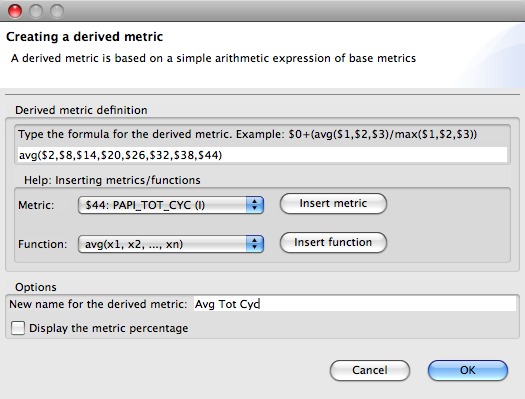
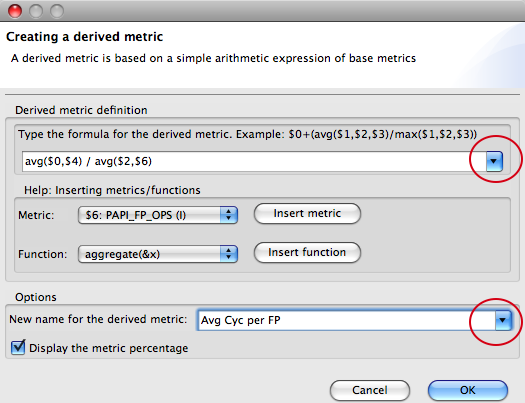
Update documentation/help: derived metric dialog box

diff --git a/doc/hpcviewer.html b/doc/hpcviewer.html
@@ -205,7 +205,7 @@ for the selected line and its descendants. One can zoom out
 <li><img src="images/savecsv.gif"/> <b>Export into a CSV format file</b>: Exporting the current metric table into a comma separated value (CSV) format file.
  This feature only exports all metrics that are currently shown.
  Metrics that are not shown in the view (whose scopes are not expanded) will not be exported (we assume these metrics are not significant).	 
- <li><img src="images/FontBigger.gif"/> <b>Increase</b> / <img src="images/FontSmaller.gif"/> decrease font size: Increasing or decreasing the size of the navigation and metric panes.
+ <li><img src="images/FontBigger.gif"/> <b>Increase</b> / <img src="images/FontSmaller.gif"/> <b>decrease font size</b>: Increasing or decreasing the size of the navigation and metric panes.
  </ul>
 </p>
 
@@ -423,6 +423,12 @@ The window has two main parts:
  </li>
 </p>
 
+<b>Notes</b>
+<p>The entered formula and the metric name will be stored automatically. 
+One can then review again the formula (or metric name) by clicking the 
+small triangle of the combo box (marked with a red circle).
+</p>
+
 
 <a name="metriccolumns"><h2>For Convenience Sake</h2></a>
 <p>In this section we describe some features of hpcviewer that help
@@ -492,6 +498,10 @@ Depress and hold the mouse button over the header of column
 that you wish to move and drag the column right or left to its new
 position.
 </li>
+ <li>Copying selected metrics into clipboard</li>. In order to copy selected
+ lines of scopes/metrics, one can right click on the metric pane or navigation pane
+ then select the menu <b>"Copy"</b>. The copied metrics can then be pasted into
+ any text editor.
  <li><b>Hiding or showing metric columns</b>. Sometimes, it may be
 more convenient to suppress the display of metrics that are not of
 current interest. When there are too many metrics to fit on the screen
@@ -534,8 +544,8 @@ As of this writing, hpcviewer has some limitations:
    executions at different scales as described in reference [2] below.
    </li>
 
-   <li><b>Copying or printing metrics</b>. hpcviewer does not
-   currently support copying or printing metric values.
+   <li><b>Printing metrics</b>. hpcviewer does not
+   currently support printing metric values. However it is possible to export metrics into a file.
    </li>
  </ul> 
 
